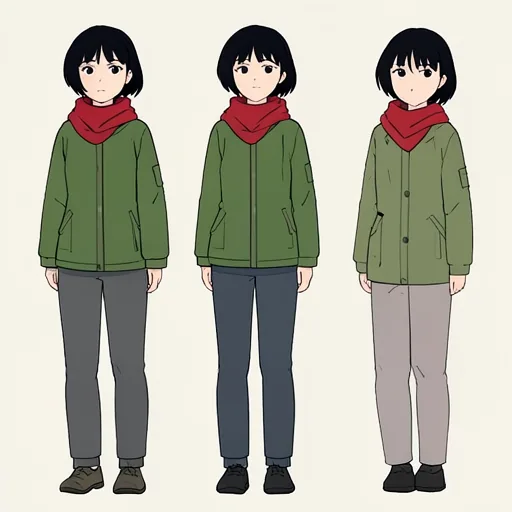
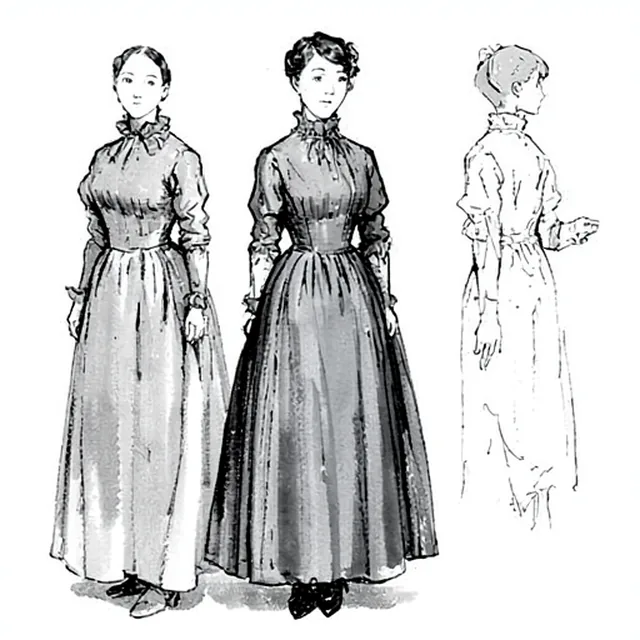
Make the three pipeline steps one story
The section claims the same person appears in the same place throughout, and
then illustrated itself with two different boards: step one showed a
character in a green jacket from the anime board, steps two and three showed
the Victorian ink-wash room and the woman who belongs in it. A reader
comparing them sees the claim contradicted by the pictures making it.

Step one now shows the cast from the same board as the other two.

Anchored sections also landed underneath the sticky nav, so following a link
from the navigation cut the heading off. They clear it now.

Claude-Session: https://claude.ai/code/session_012MFwJ2dPAPyhPGMFsepAwo

diff --git a/site/index.html b/site/index.html
@@ -47,6 +47,8 @@
 }
 * { box-sizing: border-box; }
 html { scroll-behavior: smooth; }
+/* The nav is sticky, so an anchored section has to clear it. */
+section[id], header[id] { scroll-margin-top: 84px; }
 @media (prefers-reduced-motion: reduce) { html { scroll-behavior: auto; } }
 body {
   margin: 0;
@@ -472,7 +474,7 @@ footer { border-top: 1px solid var(--line-soft); padding: 40px 0 56px; color: va
     <p class="section-lede">Paste prose. It is divided into scenes, one character is cast, each room is drawn once, and every panel is set against both so the same person appears in the same place throughout.</p>
     <div class="flow-track">
       <div class="step">
-        <figure><img src="img/character-sheet.webp" width="640" height="640" alt="A character reference sheet showing the same woman from three angles." loading="lazy"></figure>
+        <figure><img src="img/character-sheet.webp" width="640" height="640" alt="A character reference sheet: the same woman drawn from three angles in ink and wash." loading="lazy"></figure>
         <h3>Cast the character</h3>
         <p>Drawn once from your description, or bring a photograph of your own.</p>
       </div>

diff --git a/site/install.html b/site/install.html
@@ -47,6 +47,8 @@
 }
 * { box-sizing: border-box; }
 html { scroll-behavior: smooth; }
+/* The nav is sticky, so an anchored section has to clear it. */
+section[id], header[id] { scroll-margin-top: 84px; }
 @media (prefers-reduced-motion: reduce) { html { scroll-behavior: auto; } }
 body {
   margin: 0;
